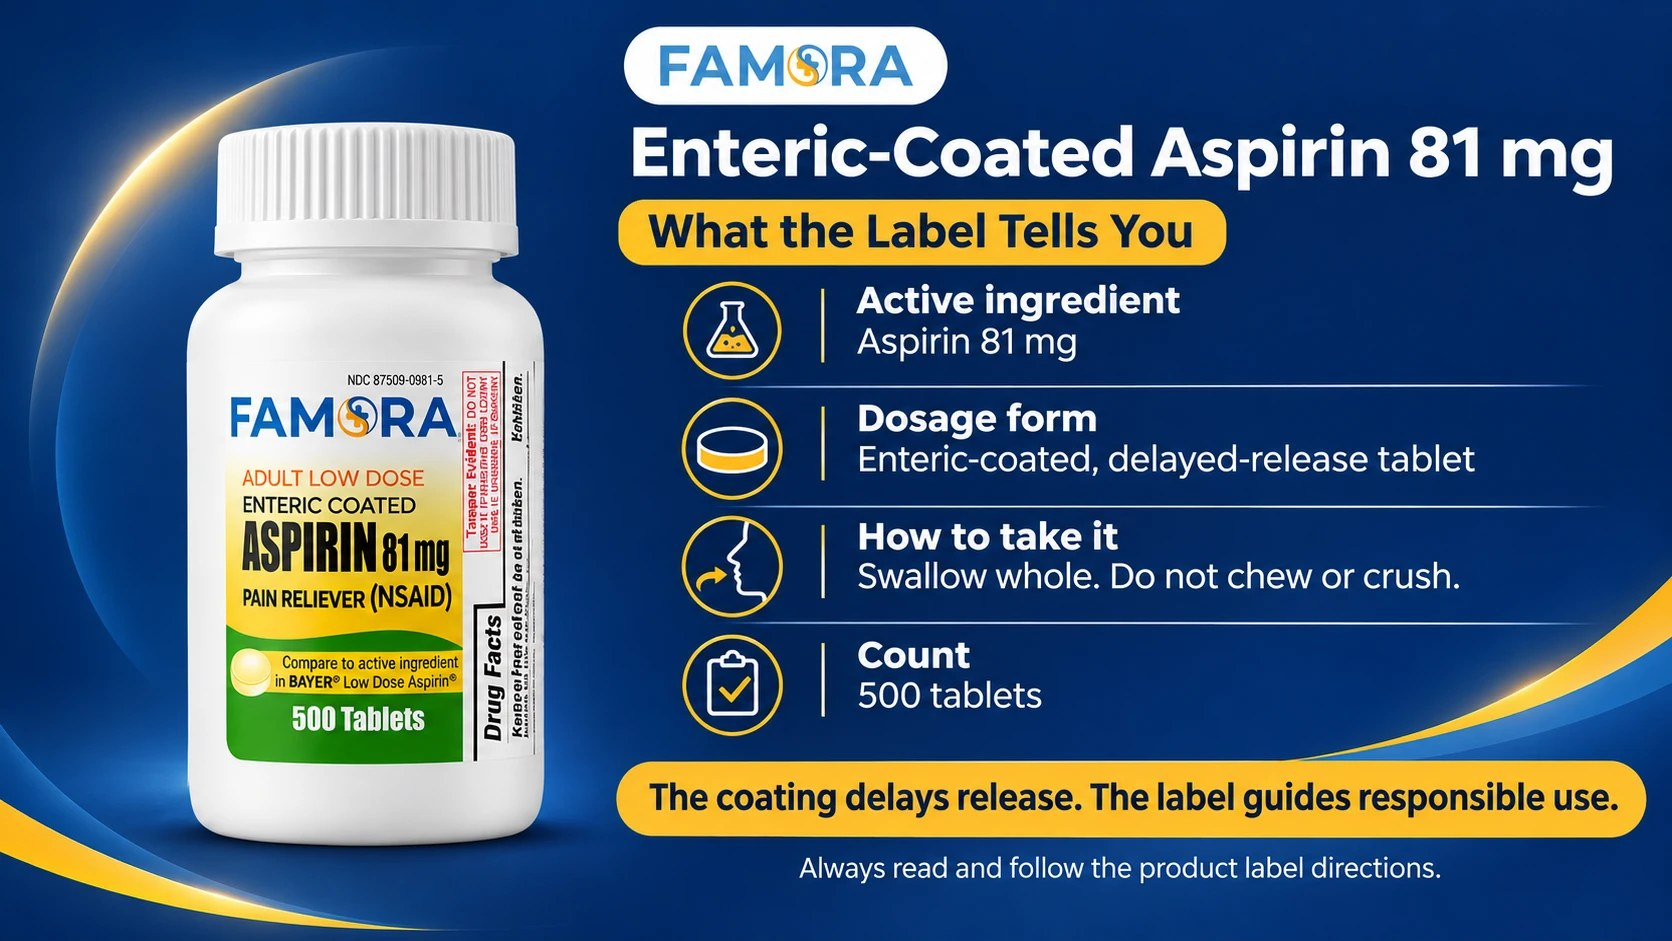
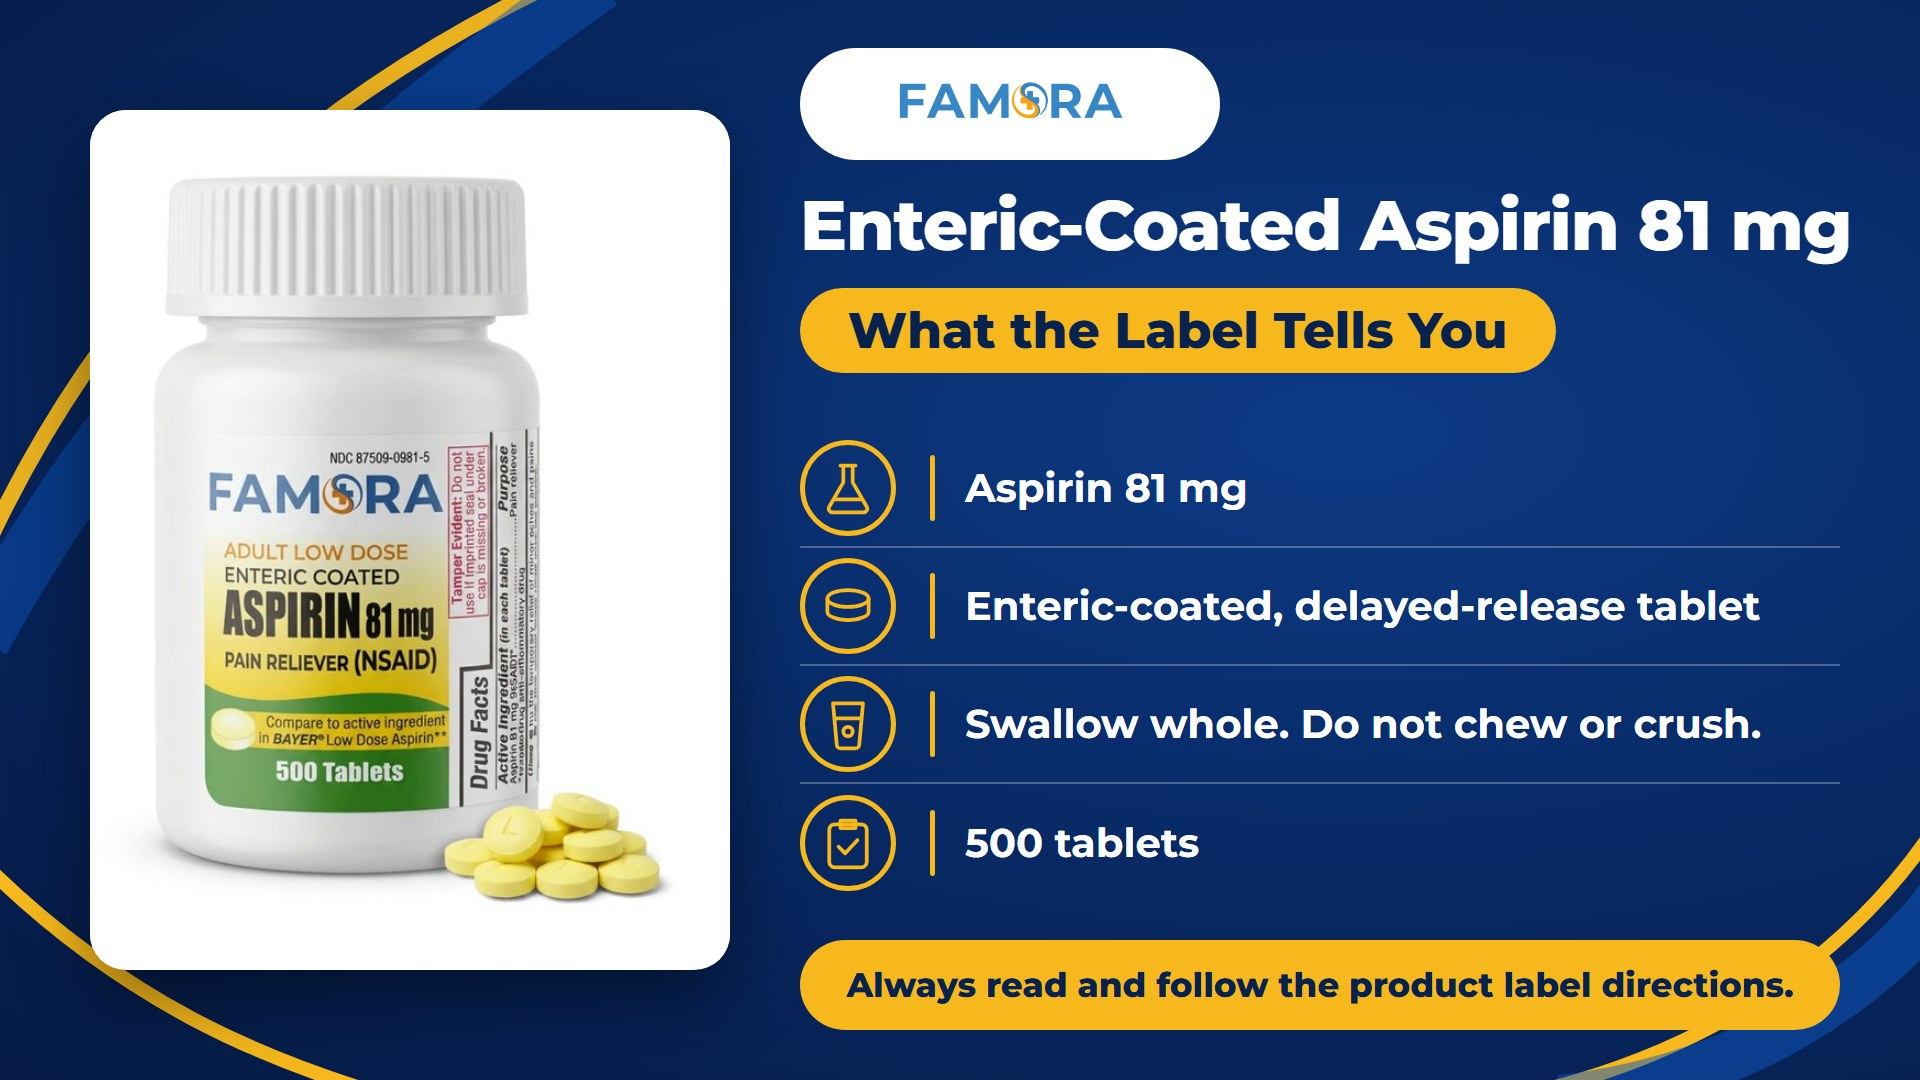
Article 10: replace graphic with corrected version built from approved packshot

diff --git a/what-does-enteric-coated-mean.html b/what-does-enteric-coated-mean.html
@@ -13,8 +13,8 @@
 <meta property="og:url" content="https://famora.us/what-does-enteric-coated-mean">
 <meta property="og:site_name" content="Famora">
 <meta property="og:image" content="https://famora.us/assets/what-does-enteric-coated-mean-low-dose-aspirin-81-mg.jpg">
-<meta property="og:image:width" content="1672">
-<meta property="og:image:height" content="941">
+<meta property="og:image:width" content="1920">
+<meta property="og:image:height" content="1080">
 <meta property="og:image:alt" content="Famora guide explaining enteric-coated Low Dose Aspirin 81 mg">
 <meta name="twitter:card" content="summary_large_image">
 <meta name="twitter:title" content="What Does Enteric Coated Mean? Aspirin 81 mg Guide">
@@ -51,11 +51,11 @@
       "image": {
         "@type": "ImageObject",
         "url": "https://famora.us/assets/what-does-enteric-coated-mean-low-dose-aspirin-81-mg.jpg",
-        "width": 1672,
-        "height": 941
+        "width": 1920,
+        "height": 1080
       },
-      "datePublished": "2026-11-04T13:07:08Z",
-      "dateModified": "2026-11-04T13:07:08Z",
+      "datePublished": "2026-11-04T17:56:25Z",
+      "dateModified": "2026-11-04T17:56:25Z",
       "inLanguage": "en-US",
       "author": {
         "@type": "Organization",
@@ -454,7 +454,7 @@
       <div class="article-image">
         <picture>
           <source srcset="assets/what-does-enteric-coated-mean-low-dose-aspirin-81-mg.webp" type="image/webp">
-          <img src="assets/what-does-enteric-coated-mean-low-dose-aspirin-81-mg.jpg" alt="Famora Low Dose Aspirin 81 mg bottle beside label facts: aspirin 81 mg active ingredient, enteric-coated delayed-release tablet, swallow whole, and 500 tablets" width="1672" height="941" loading="lazy">
+          <img src="assets/what-does-enteric-coated-mean-low-dose-aspirin-81-mg.jpg" alt="Famora Low Dose Aspirin 81 mg bottle beside label facts: aspirin 81 mg active ingredient, enteric-coated delayed-release tablet, swallow whole, and 500 tablets" width="1920" height="1080" loading="lazy">
         </picture>
       </div>
 
